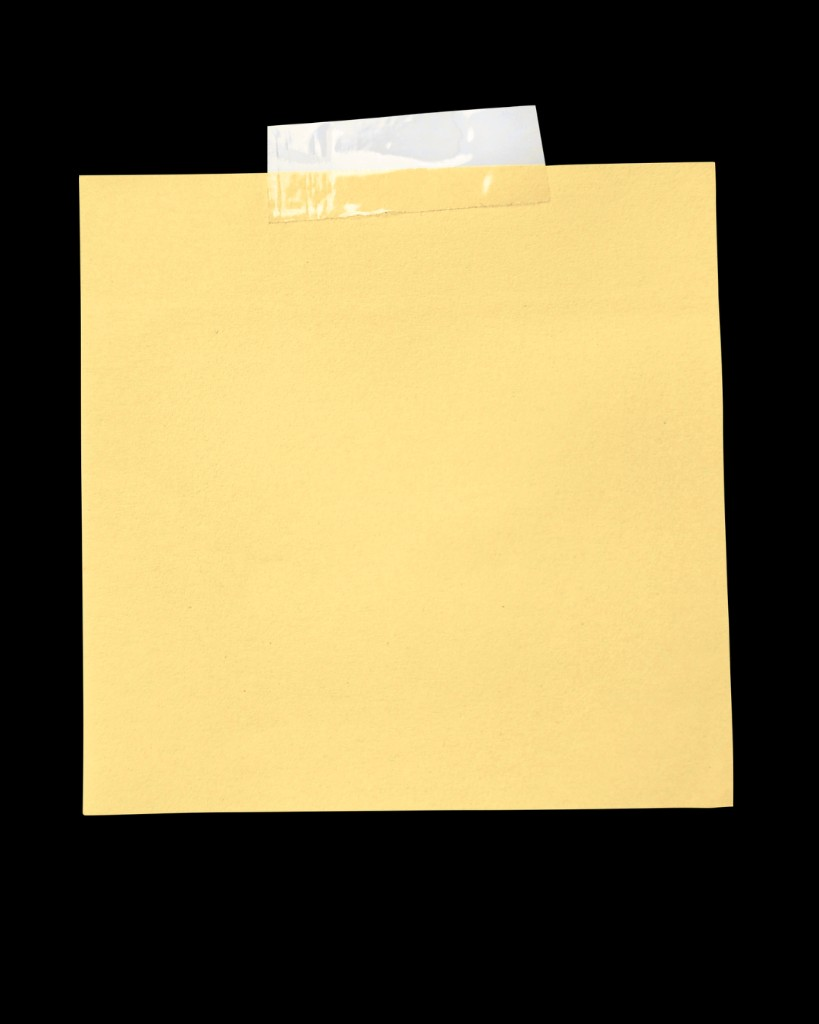
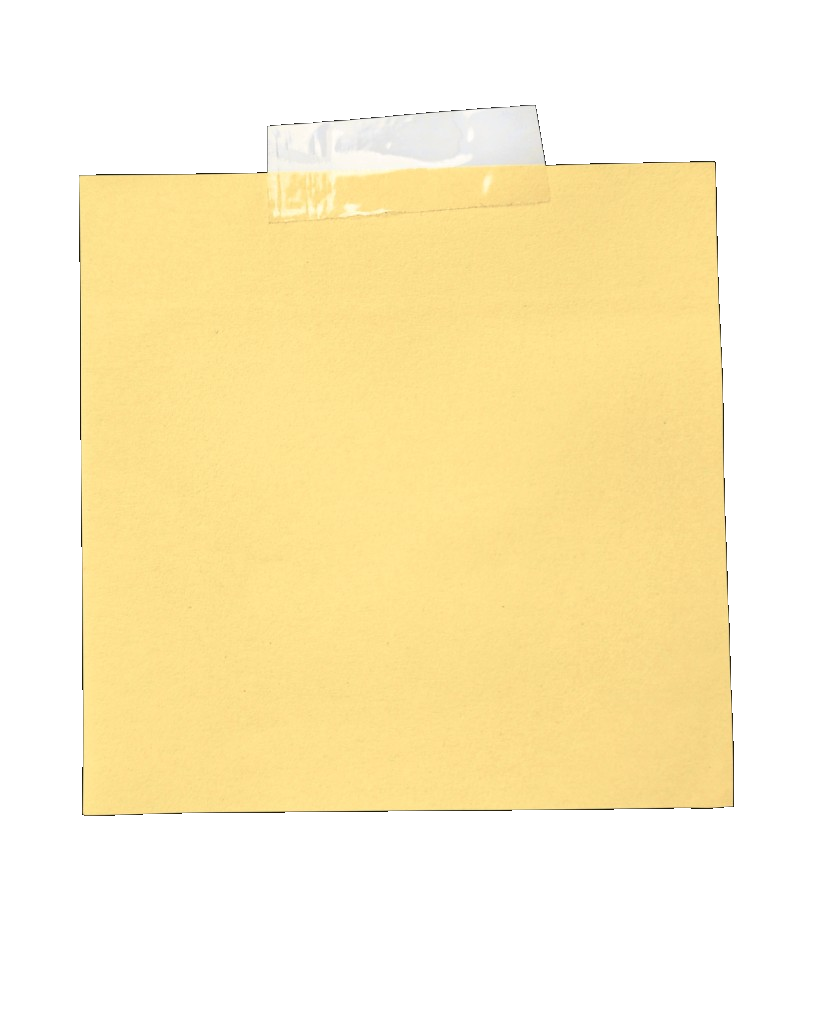
Show ballot behind pending quilt name note.

diff --git a/styles/our-daily-beta.css b/styles/our-daily-beta.css
@@ -7517,7 +7517,8 @@
       display: flex;
       align-items: center;
       justify-content: center;
-      background: none;
+      background:
+        url('../assets/quilt-name-card.webp?v=4') center / contain no-repeat;
     }
 
     .admin-name-cloud--pending-note::before,

diff --git a/lib/simplified-quilt-app-nav.js b/lib/simplified-quilt-app-nav.js
@@ -1675,7 +1675,7 @@
             <div class="admin-name-pending-note" role="status" aria-live="polite">
               <img
                 class="admin-name-pending-note__paper"
-                src="assets/quilt-name-pending-note.png?v=1"
+                src="assets/quilt-name-pending-note.png?v=2"
                 alt=""
                 aria-hidden="true"
                 decoding="async"